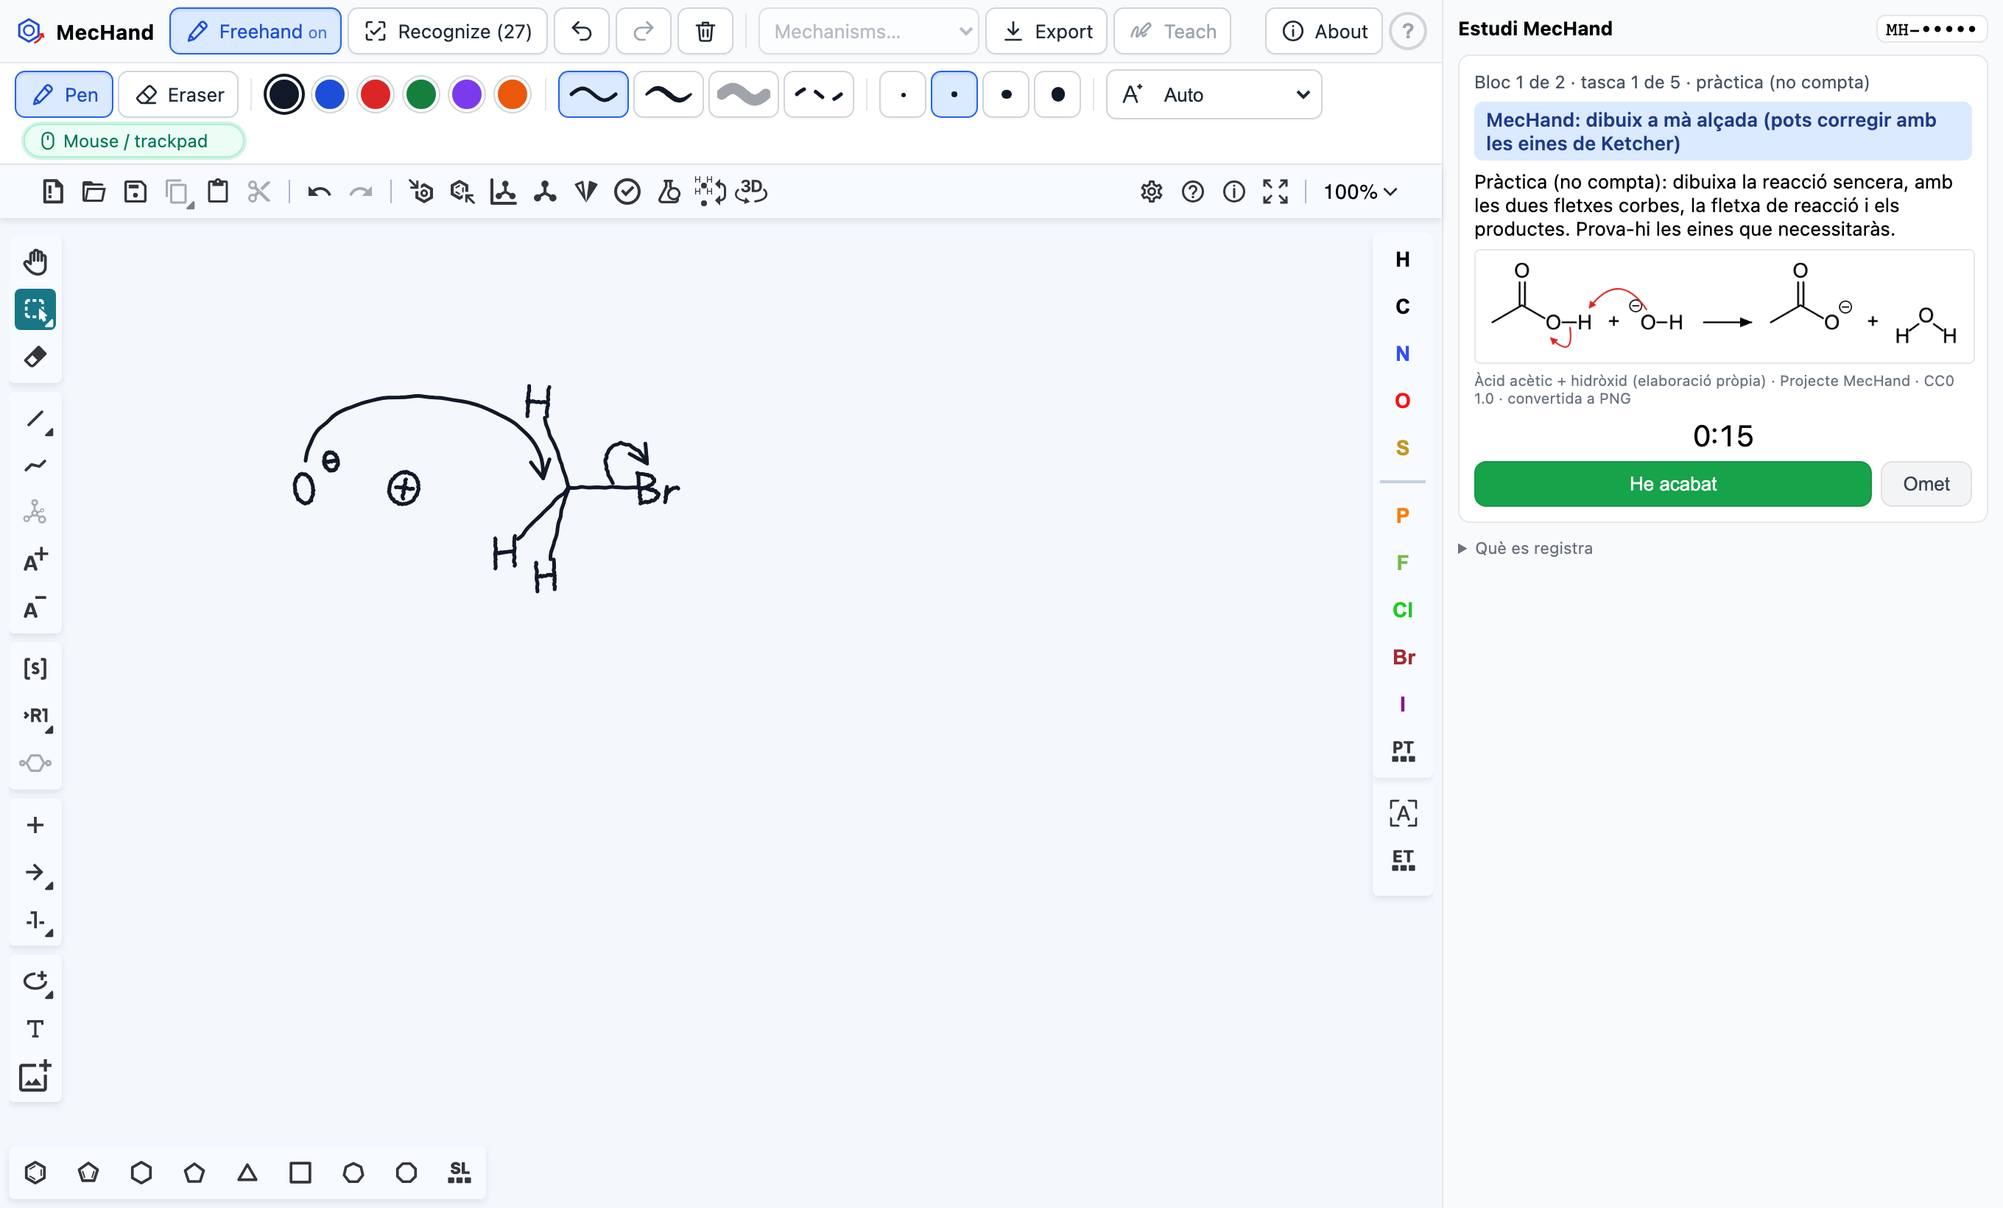
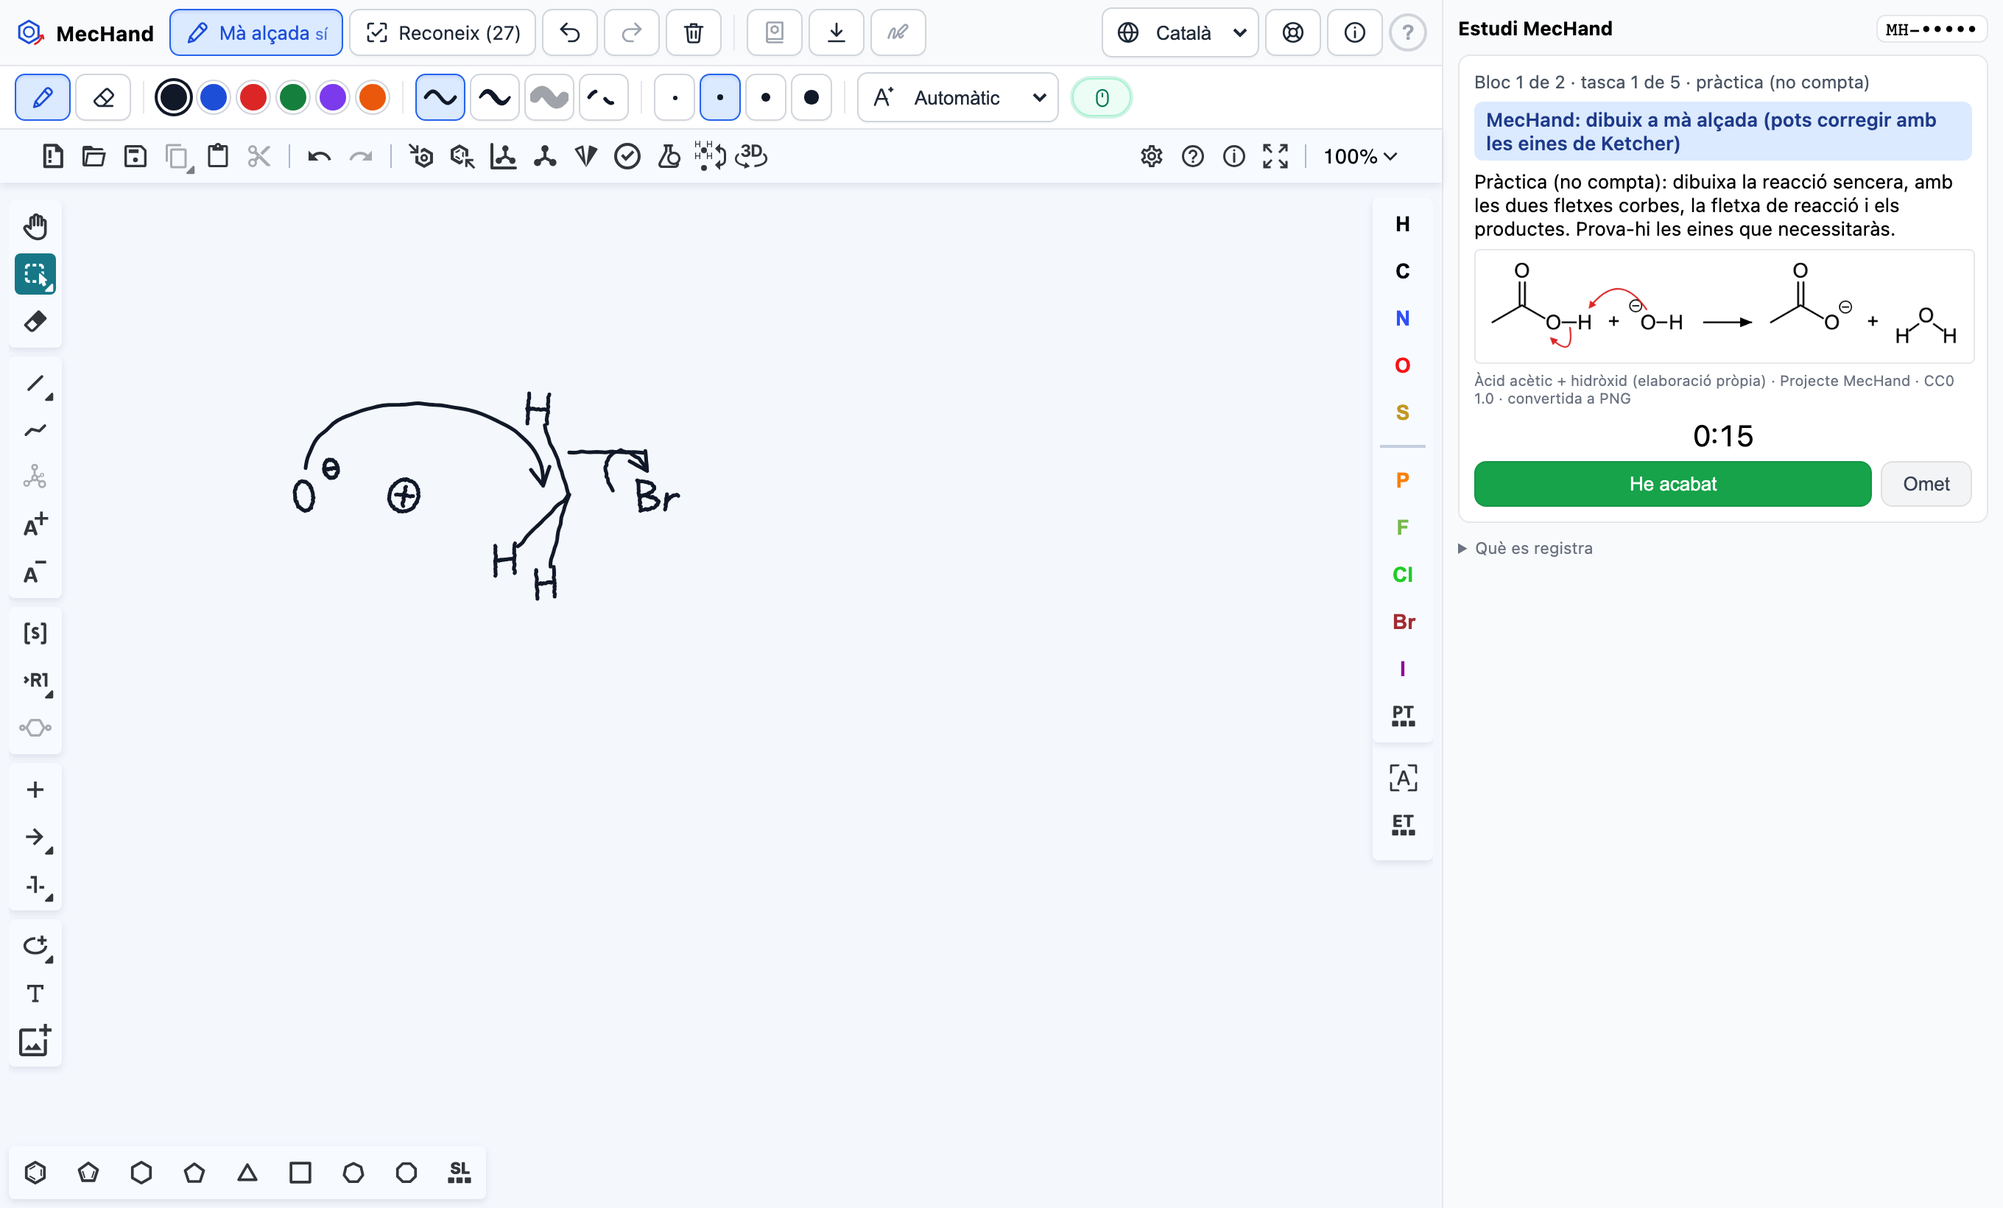
Study documents: Catalan interface names, interface language in the session, SUS versions

diff --git a/estudi/02-instruccions-participants.md b/estudi/02-instruccions-participants.md
@@ -21,17 +21,18 @@ Gràcies per participar! La sessió dura uns **60 minuts**. No és cap examen: a
 
 # 1. Entrenament (≈ 10 minuts)
 
-Prem **Obre ✍ Teach**. En cada pestanya, tria un element, dibuixa'l al requadre i prem **Save sample**
-(**Undo stroke** esborra l'últim traç). Sota el requadre veuràs com ho llegeix MecHand («Currently read
-as»): si l'encerta (✓), n'hi ha prou amb una o dues mostres. Desa unes **3 mostres** de:
+L'aplicació es mostra en català. Prem **Obre ✍ Ensenya**. En cada pestanya, tria un element,
+dibuixa'l al requadre i prem **Desa la mostra** (**Desfés el traç** esborra l'últim traç). Sota el
+requadre veuràs com ho llegeix MecHand («Ara es llegeix com»): si l'encerta (✓), n'hi ha prou amb una
+o dues mostres. Desa unes **3 mostres** de:
 
-- *Letters & signs*: C, O, N, H, F, l (de Cl), r (de Br), a (de Na), + i −; i també ⊕ i ⊖ si
+- *Lletres i signes*: C, O, N, H, F, l (de Cl), r (de Br), a (de Na), + i −; i també ⊕ i ⊖ si
   acostumes a escriure les càrregues encerclades;
-- *Arrows*: fletxa corba de 2 electrons, fletxa de reacció, equilibri (⇌);
+- *Fletxes*: fletxa corba de 2 electrons, fletxa de reacció, equilibri (⇌);
 - *Electrons*: parell solitari.
 
 A les pestanyes de fletxes i electrons, la línia grisa marca la llargada d'un enllaç: dibuixa a aquella
-escala. Quan acabis, tanca Teach (Esc) i prem **He acabat l'entrenament**.
+escala. Quan acabis, tanca la finestra (Esc) i prem **He acabat l'entrenament**.
 
 # 2. Tasques (2 blocs de 5 tasques)
 
@@ -44,12 +45,12 @@ Llegeix bé l'enunciat: en alguns mecanismes només cal dibuixar una part de la 
 1. Prem **Comença la tasca** (comença el cronòmetre).
 2. Dibuixa-ho al llenç de Ketcher, a l'esquerra, de la manera que indica el requadre de color:
 
-   - **MecHand: dibuix a mà alçada.** Prem el botó del bolígraf, **Freehand** (o Alt+F). Apareix una
+   - **MecHand: dibuix a mà alçada.** Prem el botó del bolígraf, **Mà alçada** (o Alt+F). Apareix una
      segona barra amb les eines de tinta (vegeu més avall). Dibuixa amb el llapis, el dit, el ratolí o
-     el trackpad i prem **Recognize** (o la barra d'espai). Revisa el que ha reconegut a la finestra
-     «Is this what you meant?» i prem **Insert into Ketcher** si és correcte, **Keep drawing** per
-     continuar dibuixant o **Discard ink** per esborrar la tinta i tornar-hi. Pots acabar de
-     corregir amb les eines de Ketcher.
+     el trackpad i prem **Reconeix** (o la barra d'espai). Revisa el que ha reconegut a la finestra
+     «És això el que volies dir?» i prem **Insereix a Ketcher** si és correcte (o Retorn), **Continua
+     dibuixant** (Esc) per corregir traços o **Descarta la tinta** per esborrar-la i tornar-hi. Pots
+     acabar de corregir amb les eines de Ketcher, que són en anglès.
    - **Només eines de Ketcher.** El dibuix a mà alçada està desactivat: fes servir les eines de la
      barra de Ketcher (enllaços, àtoms, càrregues amb «A+» i «A−», fletxes). Les fletxes corbes són a
      l'eina de fletxes: «Arrow Elliptical Arc Open Angle» (2 e⁻) o «… Open Half Angle» (1 e⁻).
@@ -66,11 +67,12 @@ fletxes. Entre els dos blocs pots fer una pausa.
 
 | Control | Què fa |
 | --- | --- |
-| **Pen** (bolígraf) / **Eraser** (goma) | Dibuixar o esborrar. La goma esborra traços sencers: passa-la per sobre dels traços (s'aclareixen) i aixeca-la. Tecles P i E. La punta d'esborrar d'alguns llapis (Surface, Wacom) també esborra. |
+| **Llapis** / **Goma** | Dibuixar o esborrar. La goma esborra traços sencers: passa-la per sobre dels traços (s'aclareixen) i aixeca-la. Tecles P i E. La punta d'esborrar d'alguns llapis (Surface, Wacom) també esborra. |
 | Colors, tipus de línia i gruix | Només canvien l'aspecte de la tinta: el reconeixement no en depèn. |
-| Mode d'entrada | **Auto** (per defecte): un cop fas servir el llapis, el dit i el palmell s'ignoren. **Pen only**: només dibuixa el llapis. **Pen and finger**: dibuixen tots dos. **Trackpad**: un clic comença el traç, el mous sense prémer i un altre clic l'acaba. |
+| Mode d'entrada | **Automàtic** (per defecte): un cop fas servir el llapis, el dit i el palmell s'ignoren. **Només llapis**: només dibuixa el llapis. **Llapis i dit**: dibuixen tots dos. **Trackpad**: un clic comença el traç, el mous sense prémer i un altre clic l'acaba. |
 | Indicador del dispositiu | Diu si el navegador ha vist un llapis, un dit o un ratolí/trackpad, i si l'ha ignorat. |
-| Desfer, refer i paperera (barra de dalt) | Desfer o refer l'últim canvi a la tinta (Ctrl/⌘+Z, Ctrl/⌘+Shift+Z) o esborrar-la tota. |
+| Desfer, refer i paperera (barra de dalt) | Desfer o refer l'últim canvi a la tinta (Ctrl/⌘+Z, Ctrl/⌘+Maj+Z) o esborrar-la tota. |
+| **Ajuda** (F1) | Obre el centre d'ajuda al costat del llenç, amb consells per al que estàs fent. |
 
 **Consells per al dibuix a mà alçada:** dibuixa els enllaços amb traços rectes; deixa un petit espai
 entre l'enllaç i la lletra de l'àtom; escriu les càrregues a dalt a la dreta de l'àtom; dibuixa la
@@ -95,9 +97,9 @@ A la pantalla final:
 
 - Si la pàgina es recarrega, la sessió es recupera, però el dibuix de la tasca en curs es perd: torna a
   prémer **Comença la tasca** i torna-la a començar.
-- Si no pots dibuixar: comprova que el bolígraf **Freehand** està activat (només en les tasques de
-  MecHand) i que l'indicador de dispositiu no diu «ignored»; si diu «Finger ignored» i vols dibuixar
-  amb el dit, tria el mode d'entrada **Pen and finger**.
+- Si no pots dibuixar: comprova que el bolígraf **Mà alçada** està activat (només en les tasques de
+  MecHand) i que l'indicador de dispositiu no diu «ignorat»; si diu «Dit ignorat» i vols dibuixar amb
+  el dit, tria el mode d'entrada **Llapis i dit**.
 - **Amb un trackpad** (per exemple, d'un MacBook): tria el mode d'entrada **Trackpad** (clic – moure –
   clic), o mantén premut el trackpad mentre dibuixes.
 - Avisa la persona de contacte per a qualsevol problema tècnic.

diff --git a/estudi/03-guia-investigador.md b/estudi/03-guia-investigador.md
@@ -45,8 +45,8 @@ lang: ca
 - [ ] **Memòria USB-C xifrada per maquinari** (amb teclat o PIN), que es pugui fer servir des de
   tauletes, per recollir els fitxers.
 - [ ] Dispositius de la facultat: navegador actualitzat; comproveu que el llapis dibuixa amb
-  **Freehand** i que l'indicador de dispositiu de la barra de tinta diu «Pen» quan es dibuixa amb el
-  llapis (alguns llapis d'Android es declaren com a «Finger»: en aquest cas, mode **Pen and finger**).
+  **Mà alçada** i que l'indicador de dispositiu de la barra de tinta diu «Llapis» quan es dibuixa amb el
+  llapis (alguns llapis d'Android es declaren com a «Dit»: en aquest cas, mode **Llapis i dit**).
 - [ ] Taula d'assignació de grups (§3).
 
 # 2. Material per sessió
@@ -75,8 +75,9 @@ el número d'ordre, el rol i el grup (mai el nom, el codi ni la data):
    queda la persona participant, a la pantalla final.
 3. **Demostració (3 min), igual per a tothom.** Amb el projector: (a) a Ketcher, dibuixar un enllaç,
    canviar un àtom, posar una càrrega (A+/A−) i una fletxa corba (eina de fletxes → «Arrow Elliptical
-   Arc Open Angle»); (b) a MecHand, activar **Freehand**, dibuixar un enllaç i una O, **Recognize** i
-   **Insert**, la goma i el mode **Trackpad**. No feu servir cap estímul de l'estudi.
+   Arc Open Angle»); (b) a MecHand, activar **Mà alçada**, dibuixar un enllaç i una O, **Reconeix** i
+   **Insereix a Ketcher**, la goma i el mode **Trackpad**. No feu servir cap estímul de l'estudi. La
+   interfície de MecHand es mostra en català (les barres pròpies de Ketcher són en anglès).
 4. **Inici a l'aplicació (3 min).** Qüestionari i **Comença**. Comproveu que el panell mostra el grup
    correcte.
 5. **Entrenament (10 min).** Seguiu el document 04. No corregiu la manera d'escriure de les persones participants:
@@ -106,7 +107,7 @@ el número d'ordre, el rol i el grup (mai el nom, el codi ni la data):
   torna a començar (queda registrat i l'anàlisi ho marca). Si s'ha perdut tota la sessió, comenceu-ne
   una de nova i anoteu-ho.
 - **Navegació privada:** l'emmagatzematge local pot no persistir; demaneu una finestra normal.
-- **No es pot dibuixar:** comproveu **Freehand**, el mode d'entrada i l'indicador de dispositiu (document
+- **No es pot dibuixar:** comproveu **Mà alçada**, el mode d'entrada i l'indicador de dispositiu (document
   02, «Si alguna cosa no va»). Amb trackpad, mode **Trackpad**.
 - **Problemes de reconeixement:** és part del que mesurem; no intervingueu més enllà de recordar els
   consells de dibuix del document 02.

diff --git a/estudi/04-entrenament-model.md b/estudi/04-entrenament-model.md
@@ -11,9 +11,9 @@ fletxes) amb dos classificadors per exemples del tipus $P (*point cloud*), un pe
 signes, i un altre per a les puntes de fletxa. «Entrenar» vol dir **afegir exemples**, cosa que té
 efecte immediatament, al navegador i sense cap servidor:
 
-| Pestanya de ✍ Teach | Què es dibuixa | Què canvia |
+| Pestanya d'✍ Ensenya (*Teach*) | Què es dibuixa | Què canvia |
 | --- | --- | --- |
-| *Letters & signs* | Lletres d'elements, xifres 2–4, + i −, ⊕ i ⊖ | Cada mostra és un exemple més per al classificador de lletres |
+| *Lletres i signes* | Lletres d'elements, xifres 2–4, + i −, ⊕ i ⊖ | Cada mostra és un exemple més per al classificador de lletres |
 | *Arrows* | Fletxes corbes (2 e⁻ i 1 e⁻), de reacció i d'equilibri | La punta de cada fletxa dibuixada amb un traç separat s'afegeix al model de puntes: un estil personal (triangle, punta plena…) es reconeix a partir d'aleshores |
 | *Bonds* | Enllaços simples, dobles, triples i un anell de benzè | Es reconeixen per geometria: serveix per comprovar que l'estil es llegeix bé |
 | *Electrons* | Parells solitaris i radicals, al costat d'una O grisa | La mida dels punts fixa fins a quina mida una marca compta com a punt |
@@ -28,12 +28,12 @@ coordenades *x*, *y* dels traços.
 En començar la sessió, l'aplicació esborra les mostres que hi pogués haver al navegador (d'una altra
 persona o d'una sessió anterior): cada participant parteix del model compartit.
 
-1. La persona participant prem **Obre ✍ Teach** al panell de l'estudi.
-2. Pestanya **Letters & signs**: unes 3 mostres de cadascun d'aquests símbols, els que apareixen als
+1. La persona participant prem **Obre ✍ Ensenya** al panell de l'estudi.
+2. Pestanya **Lletres i signes**: unes 3 mostres de cadascun d'aquests símbols, els que apareixen als
    estímuls: **C, O, N, H, F, l** (la ela de Cl), **r** (de Br), **a** (de Na), **+** i **−**, i també
    **⊕** i **⊖** si escriu les càrregues encerclades. Si el requadre ja els llegeix bé a la primera
    (✓), n'hi ha prou amb una o dues mostres.
-3. Pestanya **Arrows**: unes 3 fletxes corbes de 2 electrons, 1 fletxa de reacció i 1 equilibri (⇌),
+3. Pestanya **Fletxes**: unes 3 fletxes corbes de 2 electrons, 1 fletxa de reacció i 1 equilibri (⇌),
    dibuixades com ho fa habitualment, a l'escala de la línia grisa (un enllaç).
 4. Pestanya **Electrons**: 2 parells solitaris.
 5. Tancar (Esc) i prémer **He acabat l'entrenament**.

diff --git a/estudi/08-questionaris.md b/estudi/08-questionaris.md
@@ -6,7 +6,11 @@ lang: ca
 
 Les preguntes es responen a l'aplicació (mode estudi) i queden al fitxer de sessió. Aquesta còpia
 serveix per al CER i com a reserva en paper si un dispositiu falla (en aquest cas, el full en paper
-porta només el codi de participant, mai el nom). L'aplicació i els qüestionaris són en català.
+porta només el codi de participant, mai el nom). L'aplicació i els qüestionaris són en català. Els
+textos de l'aplicació són a `ketcher-mechhand/src/i18n/locales/ca.json` (apartat `study`); l'aplicació
+també té versions en castellà i anglès (`&lang=es`, `&lang=en`), que només s'han de fer servir si el
+CER aprova incloure persones que no entenen el català, i l'idioma de cada sessió queda registrat
+(`uiLanguage`).
 
 # 1. Qüestionari inicial
 
@@ -19,7 +23,7 @@ porta només el codi de participant, mai el nom). L'aplicació i els qüestionar
 | País on vas aprendre a llegir i escriure | Llista de països (codi ISO 3166-1) · Prefereixo no respondre | `participant.literacyCountry` |
 | Mà amb què escrius (opcional) | Dreta · Esquerra · Totes dues · Prefereixo no respondre | `participant.handedness` |
 | Experiència amb programes de dibuix químic (ChemDraw, Ketcher, Marvin…) | Cap · Poca (alguna vegada) · Molta (sovint) | `participant.experience` |
-| Accepto que les mostres de ✍ Teach s'incloguin al fitxer (opcional) | Sí / No | `shareTeachSamples` |
+| Accepto que les mostres d'✍ Ensenya s'incloguin al fitxer (opcional) | Sí / No | `shareTeachSamples` |
 | Accepto que aquestes mostres es publiquin, només amb el símbol i les coordenades (opcional) | Sí / No | `publishTeachSamples` |
 | He llegit el full d'informació i he signat el consentiment | Obligatori | — |
 
@@ -31,7 +35,9 @@ l'aplicació: vegeu els documents 05 i 07.
 
 Després de cada bloc: «Pensa en com has treballat en aquest bloc: [condició]. 1 = totalment en
 desacord, 5 = totalment d'acord.» Traducció pròpia al català de l'escala de Brooke (1996), d'ús
-lliure; no és una versió validada, i la prova pilot en comprova la comprensió.
+lliure; no és una versió validada, i la prova pilot en comprova la comprensió. La versió anglesa de
+l'aplicació fa servir els ítems originals de Brooke; la castellana és també una traducció pròpia, no
+validada.
 
 | # | Ítem | 1 | 2 | 3 | 4 | 5 |
 | --- | --- | --- | --- | --- | --- | --- |

diff --git a/estudi/01-disseny-experimental.md b/estudi/01-disseny-experimental.md
@@ -28,7 +28,7 @@ que van aprendre a escriure en països diferents i que dibuixen amb dispositius 
 4. Mesurar la precisió del reconeixement amb escriptura real, i com varia segons el dispositiu
    (llapis, dit, ratolí, ratolí tàctil o *trackpad*) i el país on cada persona va aprendre a llegir i escriure (com a
    indicador de l'estil de cal·ligrafia).
-5. Explorar la relació entre l'entrenament personal del model (mode *Teach*) i la precisió.
+5. Explorar la relació entre l'entrenament personal del model (*Ensenya*, en anglès *Teach*) i la precisió.
 6. Obtenir, amb consentiment explícit, mostres d'escriptura per millorar el model obert de MecHand.
 
 # 2. Hipòtesis
@@ -118,7 +118,7 @@ condicions practiquin les fletxes corbes i les càrregues abans de les tasques c
 2. **Demostració** (3 min), igual per a tothom, de les dues maneres de dibuixar (document 03, §4).
 3. **Qüestionari inicial** a l'aplicació (2 min): rol, curs, dispositiu, país on va aprendre a llegir
    i escriure, mà dominant (opcional), experiència prèvia amb programes de dibuix químic.
-4. **Entrenament** (10 min): mode *Teach*, unes 3 mostres de cada lletra, signe, fletxa i parell
+4. **Entrenament** (10 min): *Ensenya*, unes 3 mostres de cada lletra, signe, fletxa i parell
    d'electrons, menys si MecHand ja les llegeix bé (document 04).
 5. **Bloc 1** (15–20 min): pràctica + 4 tasques en la condició assignada; SUS de la condició.
 6. Pausa opcional (2–3 min).

diff --git a/estudi/06-sollicitud-comite-etica.md b/estudi/06-sollicitud-comite-etica.md
@@ -80,9 +80,10 @@ El pla d'anàlisi es preregistra (OSF) abans de la primera sessió.
   participar; (e) les retirades es poden fer de manera anònima (codi en paper a una bústia).
 - **Idioma.** L'aplicació, els qüestionaris, el full d'informació i el consentiment estan en català,
   i entendre el català escrit és criteri d'inclusió; la persona de contacte pot aclarir dubtes en
-  castellà o anglès. Si es volen incloure persones que no entenen el català, cal traduir el full
-  d'informació, el consentiment, el panell de l'aplicació i la SUS (amb una versió validada) abans de
-  començar [pendent de decidir].
+  castellà o anglès. L'aplicació ja té el panell de l'estudi en castellà i anglès (l'anglès amb els
+  ítems originals de la SUS); si es volen incloure persones que no entenen el català, cal traduir
+  també el full d'informació i el consentiment, i valorar l'ús d'una versió validada de la SUS en
+  castellà [pendent de decidir]. L'idioma de cada sessió queda registrat.
 - **Compensació:** cap.
 
 # 6. Riscos i beneficis

diff --git a/estudi/README.md b/estudi/README.md
@@ -52,8 +52,9 @@ CC BY 4.0).
 - Data límit de conservació (documents 05 i 07).
 - Confirmar amb la secretaria del CER que el formulari de 2020 i l'adreça són vigents; dictamen (codi
   i data als documents 05 i 09).
-- Decidir si s'inclouen persones que no entenen el català (cal traduir el full d'informació, el
-  consentiment, el panell de l'aplicació i la SUS) o si es manté com a criteri d'inclusió.
+- Decidir si s'inclouen persones que no entenen el català o si es manté com a criteri d'inclusió. El
+  panell de l'aplicació ja existeix en castellà i anglès (`&lang=es`, `&lang=en`); caldria traduir el
+  full d'informació i el consentiment, i triar una SUS validada en castellà.
 - Preregistre del pla d'anàlisi (OSF).
 - Ruta de la carpeta institucional xifrada i memòria USB-C xifrada per maquinari (document 03).
 - Dues persones avaluadores per a la valoració cega de les fletxes.

diff --git a/estudi/05-consentiment-informat.md b/estudi/05-consentiment-informat.md
@@ -79,7 +79,7 @@ L'aplicació (en «mode estudi») genera un **codi aleatori** (per exemple, `MH-
 | Dada | Exemple | Per què |
 | --- | --- | --- |
 | Codi aleatori i grup de l'estudi | `MH-7K3Q9`, `A1` | Ordenar les dades sense saber qui ets |
-| Versió de l'aplicació (amb el codi del *commit*) i del model | 0.1.0+44cdba2, 1.3.0 | Saber amb quina versió s'ha fet la sessió |
+| Versió de l'aplicació (amb el codi del *commit*) i del model, i idioma de la interfície | 0.1.0+44cdba2, 1.3.0, ca | Saber amb quina versió i en quin idioma s'ha fet la sessió |
 | Any de la sessió (sense dia ni hora) | 2026 | Organitzar les dades |
 | Rol i curs | estudiant, 2n curs | Comparar grups |
 | Dispositiu amb què dibuixes | tauleta amb llapis | La precisió depèn del dispositiu |

diff --git a/estudi/07-proteccio-dades-i-seguretat.md b/estudi/07-proteccio-dades-i-seguretat.md
@@ -37,7 +37,8 @@ de càmera.
 Esquema `mechand-study-session/3` (codi: `ketcher-mechhand/src/study/recorder.ts`):
 
 - `code` (aleatori, `crypto.getRandomValues`), `group`, `year` (només l'any), `appVersion` (versió i
-  *commit*, p. ex. `0.1.0+44cdba2`), `modelVersion`;
+  *commit*, p. ex. `0.1.0+44cdba2`), `modelVersion`, `uiLanguage` (idioma de la interfície: `ca` per
+  defecte a l'estudi);
 - `participant`: `role`, `course`, `device`, `literacyCountry` (codi ISO 3166-1 alfa-2 o buit),
   `handedness` (o nul), `experience`;
 - `environment`: `browser` (nom i versió principal), `os` (nom i versió principal si es coneix),
